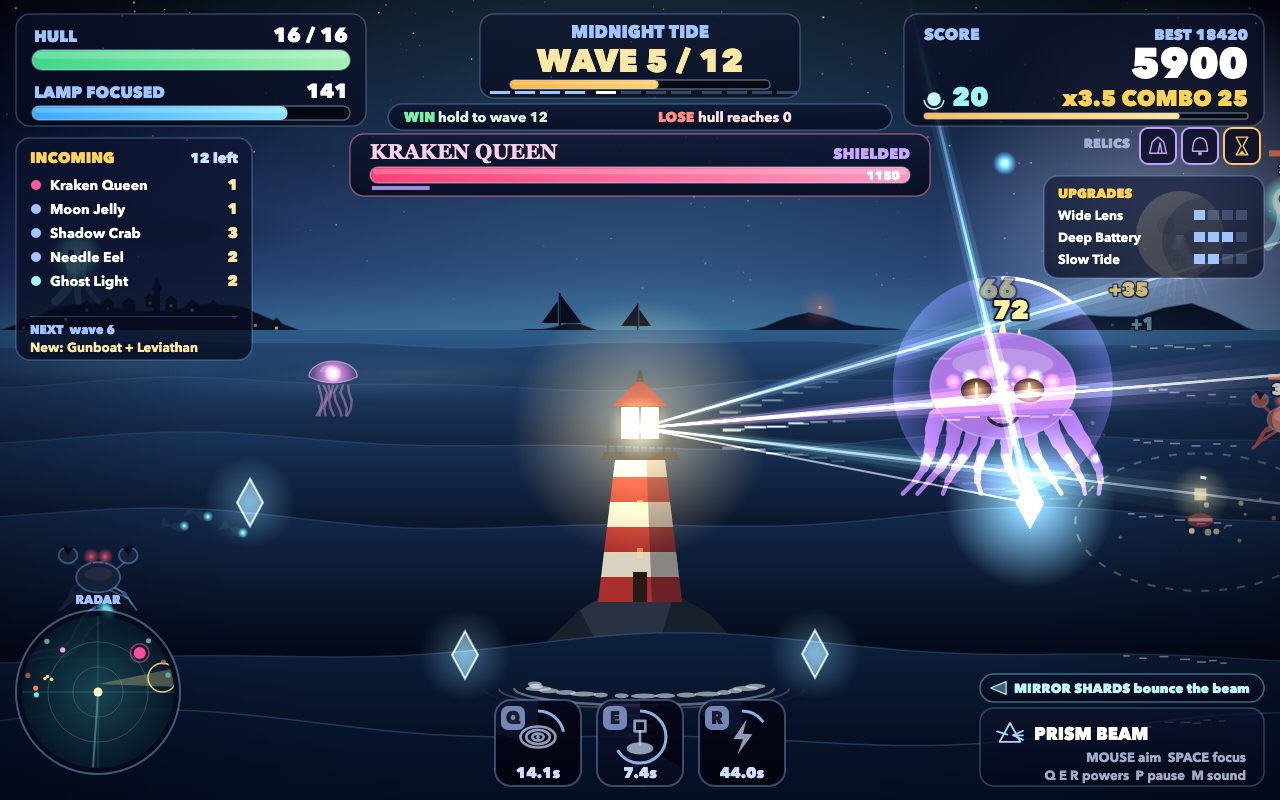
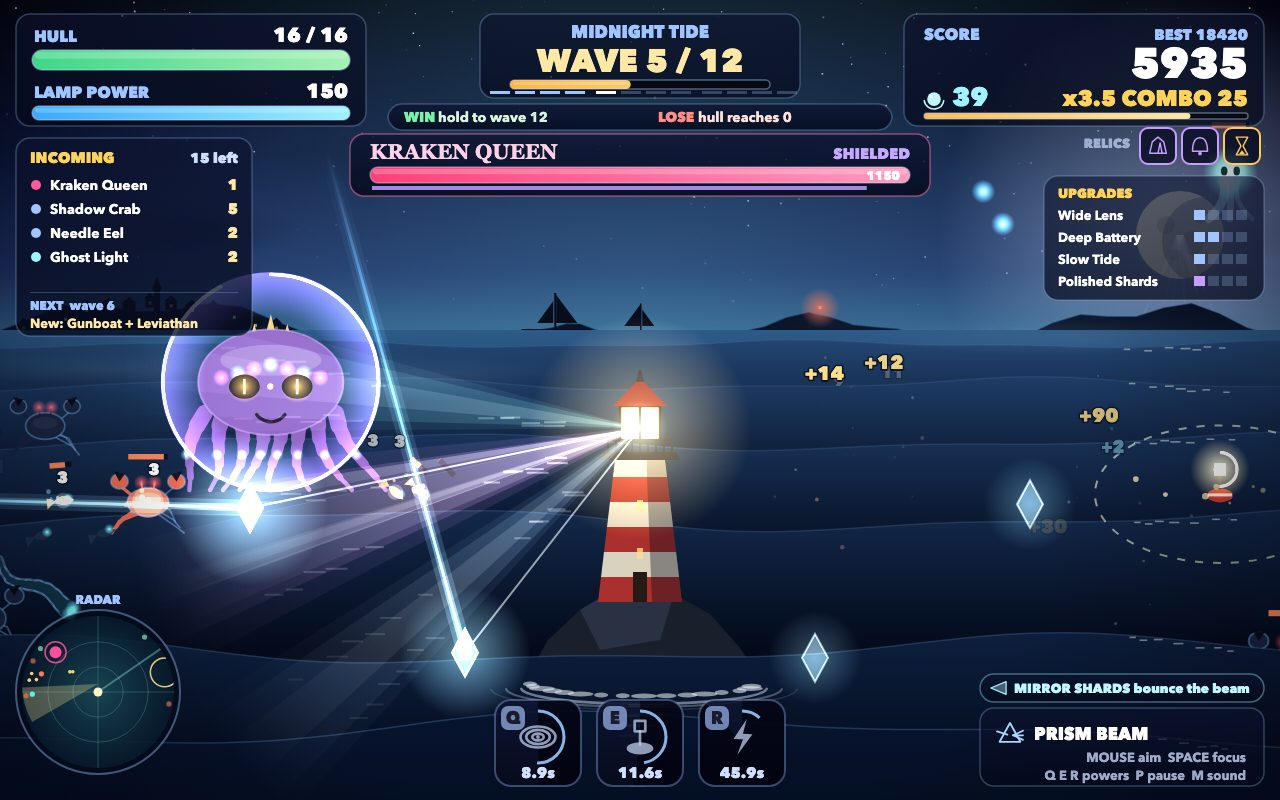
Add Polished Shards upgrade and Kaleidoscope relic for mirror shards

diff --git a/game/src/upgrades.js b/game/src/upgrades.js
@@ -18,6 +18,7 @@ export const UPGRADES = [
   { id: 'bolts', icon: 'bolt', rarity: 'rare', name: 'Storm Coil', desc: 'Lightning now and then strikes the nearest creatures.' },
   { id: 'haste', icon: 'clock', rarity: 'rare', name: "Keeper's Haste", desc: 'Q, E and R recharge 12% faster.' },
   { id: 'might', icon: 'nova', rarity: 'rare', name: 'Nova Might', desc: 'Pulse and Buoy reach 12% farther and hit 20% harder.' },
+  { id: 'polish', icon: 'laser', rarity: 'rare', name: 'Polished Shards', desc: 'Mirror lasers hit 30% harder and reach 8% farther.' },
   { id: 'hull', icon: 'shield', rarity: 'rare', name: 'Stone Footing', desc: '+4 maximum hull and mend 4.' },
 ];
 
@@ -30,10 +31,11 @@ export const RELICS = [
   { id: 'hourglass', icon: 'glass', rarity: 'epic', name: 'Dusk Hourglass', desc: 'Focused beam drains 35% less power.' },
   { id: 'crown', icon: 'crown', rarity: 'epic', name: 'Coral Crown', desc: '+30% score from everything.' },
   { id: 'heart', icon: 'heart', rarity: 'epic', name: 'Fresnel Heart', desc: 'The wide beam bites through shields (50%).' },
+  { id: 'kaleido', icon: 'sun', rarity: 'epic', name: 'Kaleidoscope', desc: 'A lit mirror shard keeps firing 2 seconds after the beam leaves it.' },
   { id: 'bottle', icon: 'bottle', rarity: 'epic', name: 'Storm in a Bottle', desc: 'Storm Call strikes 5 more targets and recharges 25% faster.' },
 ];
 
-export const FRESH_LEVELS = { wide: 0, bright: 0, cell: 0, bolts: 0, slow: 0, focus: 0, haste: 0, might: 0 };
+export const FRESH_LEVELS = { wide: 0, bright: 0, cell: 0, bolts: 0, slow: 0, focus: 0, haste: 0, might: 0, polish: 0 };
 
 export const ITEMS = [...UPGRADES.map((u) => ({ ...u, kind: 'upgrade' })), ...RELICS.map((r) => ({ ...r, kind: 'relic' }))];
 export const itemById = (id) => ITEMS.find((i) => i.id === id);

diff --git a/game/src/world.js b/game/src/world.js
@@ -301,11 +301,12 @@ export class World {
       const dir = Math.atan2(dy, dx);
       let hit = false;
       for (const arm of arms) if (dist < range + 40 && Math.abs(wrap(dir - (this.beamAngle + arm.off))) < arm.half + MIRROR.half) hit = true;
-      m.lit += ((hit && !this.locked ? 1 : 0) - m.lit) * Math.min(1, dt * 10);
+      m.hold = hit && !this.locked ? (this.hasRelic('kaleido') ? 2 : 0.001) : Math.max(0, (m.hold || 0) - dt);
+      m.lit += ((m.hold > 0 ? 1 : 0) - m.lit) * Math.min(1, dt * 10);
       m.on = m.lit > 0.45;
       if (!m.on) continue;
       let near = null;
-      let best = MIRROR.reach;
+      let best = MIRROR.reach * (1 + 0.08 * this.up.polish);
       for (const e of this.enemies) {
         const d = Math.hypot(e.x - m.x, e.y - m.y);
         if (d < best) {
@@ -400,8 +401,8 @@ export class World {
         const mdy = e.y - m.y;
         const md = Math.hypot(mdx, mdy);
         const off = wrap(Math.atan2(mdy, mdx) - m.ang);
-        if (md < MIRROR.reach + e.r && Math.abs(off) < MIRROR.half + e.r / Math.max(md, 40)) {
-          this.hurt(e, MIRROR.dps * (this.focusing ? 2.2 : 1) * dt, { focused: this.focusing });
+        if (md < MIRROR.reach * (1 + 0.08 * this.up.polish) + e.r && Math.abs(off) < MIRROR.half + e.r / Math.max(md, 40)) {
+          this.hurt(e, MIRROR.dps * (1 + 0.3 * this.up.polish) * (this.focusing ? 2.2 : 1) * dt, { focused: this.focusing });
           e.lit = 1;
           if (this.fx.chance(0.3)) this.spark(e.x, e.y, 1, '150,235,255', 110, 0.4);
         }
